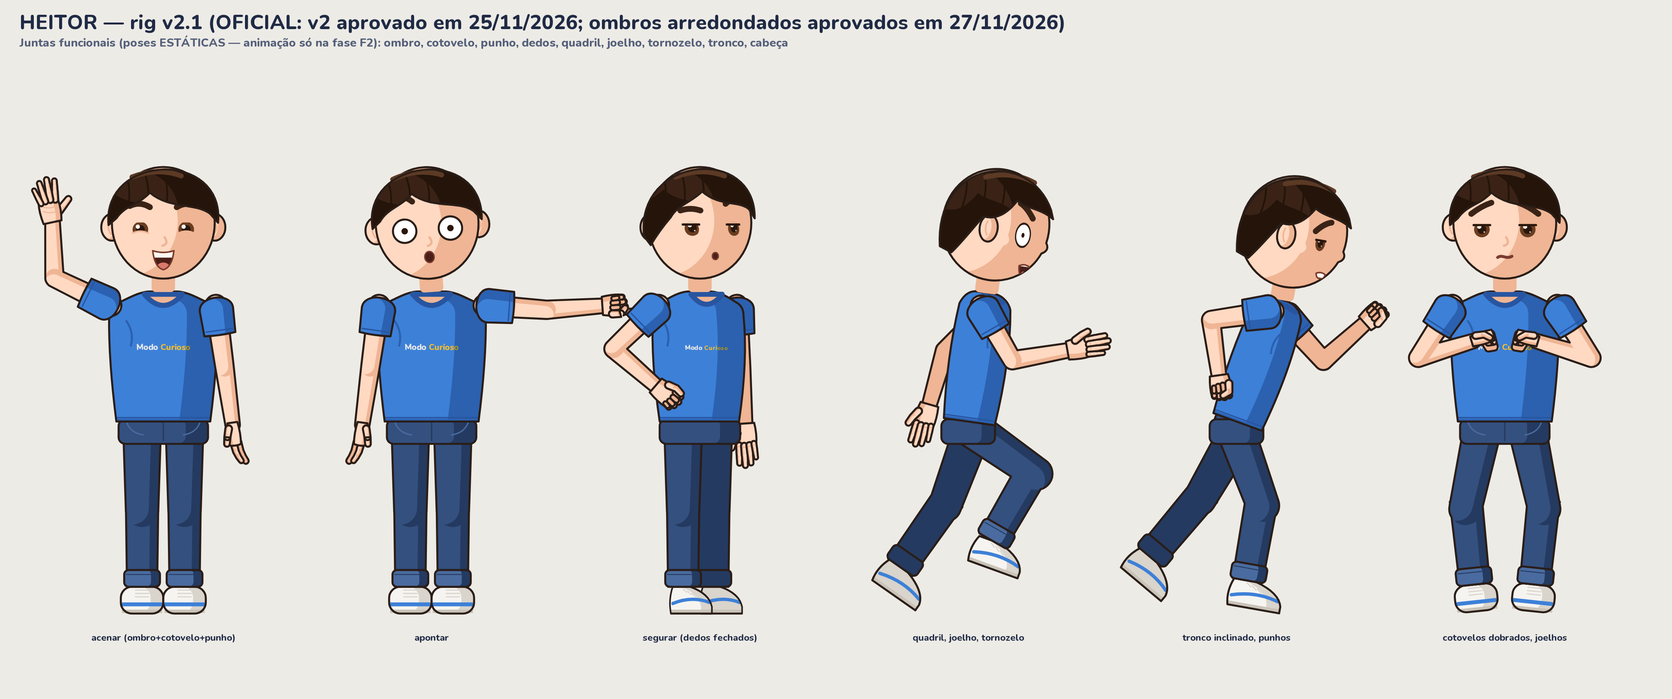
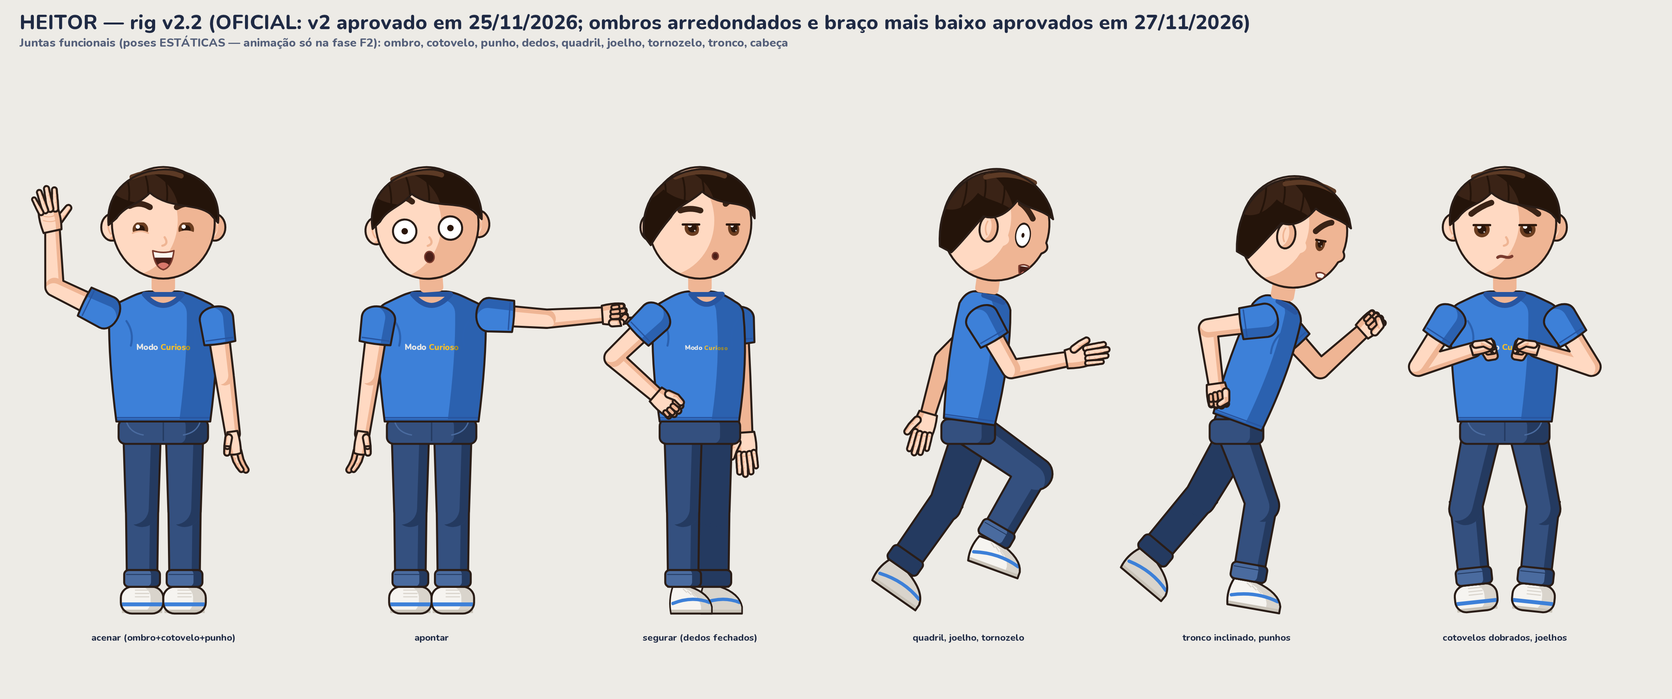
Heitor rig v2.2 e Juca/Jandira v1.1 aprovados: braço encaixado abaixo da linha do ombro; skill v6 (zip) com elenco, marcas e voz do EP02
Claude-Session: https://claude.ai/code/session_011EYkUSqXLaaDeUvLHBExgD

diff --git a/personagens/heitor/rig_v2/codigo/heitor_v2.py b/personagens/heitor/rig_v2/codigo/heitor_v2.py
@@ -1,5 +1,5 @@
 #!/usr/bin/env python3
-"""Heitor — rig 2D com esqueleto, v2 (OFICIAL, aprovado pelo diretor em 25/11/2026).
+"""Heitor — rig 2D com esqueleto, v2 (OFICIAL, aprovado pelo diretor em 25/11/2026; v2.1 ombros redondos; v2.2 braço mais baixo, 27/11/2026).
 
 Fonte da verdade: ../modelo.json (paleta e proporções da especificação oficial).
 - Esqueleto hierárquico com FK: raiz(pelve) → tronco → cabeça; tronco → braço → antebraço → mão → 5 dedos;
@@ -81,7 +81,8 @@ def preenche(c, forma, cor, cor_s, lado, frac=0.3, linha=True):
 # ------------------------------------------------------------------ esqueleto (FK)
 # Posição de cada osso no sistema do pai, por vista (x em H; y para baixo). Ângulo de repouso em graus.
 _ALT_PELVE = PROP["barra_camisa"]
-OMBRO_Y = -(PROP["ombro"] - _ALT_PELVE)
+OMBRO_TRONCO_Y = -(PROP["ombro"] - _ALT_PELVE)                       # linha do ombro da camiseta (desenho do tronco)
+OMBRO_Y = -(PROP.get("ombro_braco", PROP["ombro"]) - _ALT_PELVE)     # v2.2: encaixe do braço um pouco abaixo da linha do ombro
 PESCOCO_Y = -(2.92 - _ALT_PELVE)
 LAYOUT = {
     "frente":       {"braco_d": (-0.47, 8), "braco_e": (0.47, -8), "coxa_d": (-0.19, 0), "coxa_e": (0.19, 0)},
@@ -508,7 +509,7 @@ def _estampa(c, cx, y_base, larg, curva=0.6, perspectiva=0.0, espelhado=False):
 
 def _forma_tronco(vista):
     """v2.1 (27/11/2026, aprovado pelo diretor): do pescoço ao ombro a linha DESCE em curva (trapézio), sem patamar reto; a quina do ombro é redonda."""
-    p = skia.Path(); top, hem = OMBRO_Y - 0.1, 0.0
+    p = skia.Path(); top, hem = OMBRO_TRONCO_Y - 0.1, 0.0
     if vista in ("frente", "costas"):
         p.moveTo(-0.13, top - 0.025); p.lineTo(0.13, top - 0.025)
         p.cubicTo(0.22, top - 0.02, 0.31, top + 0.035, 0.40, top + 0.075)          # trapézio descendo
@@ -553,15 +554,15 @@ def desenhar_tronco(c, vista, lado_luz, espelhado):
     c.drawPath(tr, contorno())
     # gola
     if vista == "frente":
-        dec = skia.Path(); dec.moveTo(-0.17, OMBRO_Y - 0.1); dec.quadTo(0, OMBRO_Y + 0.1, 0.17, OMBRO_Y - 0.1); dec.close()
+        dec = skia.Path(); dec.moveTo(-0.17, OMBRO_TRONCO_Y - 0.1); dec.quadTo(0, OMBRO_TRONCO_Y + 0.1, 0.17, OMBRO_TRONCO_Y - 0.1); dec.close()
         c.drawPath(dec, tinta(C["pele_s"])); c.drawPath(dec, traco(C["gola"], 0.045))
     elif vista == "tres_quartos":
-        dec = skia.Path(); dec.moveTo(-0.08, OMBRO_Y - 0.1); dec.quadTo(0.06, OMBRO_Y + 0.08, 0.2, OMBRO_Y - 0.1); dec.close()
+        dec = skia.Path(); dec.moveTo(-0.08, OMBRO_TRONCO_Y - 0.1); dec.quadTo(0.06, OMBRO_TRONCO_Y + 0.08, 0.2, OMBRO_TRONCO_Y - 0.1); dec.close()
         c.drawPath(dec, tinta(C["pele_s"])); c.drawPath(dec, traco(C["gola"], 0.045))
     elif vista == "perfil":
-        c.drawLine(-0.02, OMBRO_Y - 0.1, 0.16, OMBRO_Y - 0.06, traco(C["gola"], 0.045))
+        c.drawLine(-0.02, OMBRO_TRONCO_Y - 0.1, 0.16, OMBRO_TRONCO_Y - 0.06, traco(C["gola"], 0.045))
     else:
-        c.drawLine(-0.17, OMBRO_Y - 0.1, 0.17, OMBRO_Y - 0.1, traco(C["gola"], 0.045))
+        c.drawLine(-0.17, OMBRO_TRONCO_Y - 0.1, 0.17, OMBRO_TRONCO_Y - 0.1, traco(C["gola"], 0.045))
 
 
 def desenhar_quadril(c, vista, lado_luz):
@@ -579,7 +580,9 @@ def desenhar_quadril(c, vista, lado_luz):
 
 
 def forma_braco():
-    return capsula(OSS["braco"], 0.19, 0.165)
+    """v2.2: o topo arredondado do braço começa um pouco abaixo da junta (fica escondido dentro da manga)."""
+    q = OSS.get("braco_topo", 0.0)
+    p = capsula(OSS["braco"] - q, 0.19, 0.165); p.offset(0, q); return p
 
 
 def forma_antebraco():

diff --git a/personagens/heitor/extensoes/x2_voo/voo.py b/personagens/heitor/extensoes/x2_voo/voo.py
@@ -189,7 +189,7 @@ def _camiseta(c, vista, vento, t, semente, so_barra=False):
         return
     f = 2.0 + 4.0 * I; fase = 2 * math.pi * f * t
     lados = {"frente": (-0.42, 0.42, 0.47), "costas": (-0.42, 0.42, 0.47), "tres_quartos": (-0.36, 0.35, 0.41), "perfil": (-0.21, 0.23, 0.27)}[vista]
-    xa, xb, xm = lados; topo = HV.OMBRO_Y - 0.1
+    xa, xb, xm = lados; topo = getattr(HV, "OMBRO_TRONCO_Y", HV.OMBRO_Y) - 0.1
     # barra abrindo: aba que sai da barra na direção do vento (só quando o ar corre do ombro para a barra)
     ao_longo = max(0.0, float(w[1]))
     abre = (0.06 + 0.10 * I) * ao_longo     # ≤ 0,16 H: termina dentro do cós do jeans

diff --git a/personagens/heitor/rig_v2/codigo/folhas.py b/personagens/heitor/rig_v2/codigo/folhas.py
@@ -17,7 +17,7 @@ import heitor_v2 as H   # noqa: E402
 OUT = AQUI.parent / "folhas"; OUT.mkdir(exist_ok=True)
 FUNDO = 0xFFEDEBE6; TXT = 0xFF1F2A44
 F_T = skia.Font(H.NUNITO, 52); F_S = skia.Font(H.NUNITO, 30); F_P = skia.Font(H.NUNITO, 24)
-CAB = "HEITOR — rig v2.1 (OFICIAL: v2 aprovado em 25/11/2026; ombros arredondados aprovados em 27/11/2026)"
+CAB = "HEITOR — rig v2.2 (OFICIAL: v2 aprovado em 25/11/2026; ombros arredondados e braço mais baixo aprovados em 27/11/2026)"
 
 
 def titulo(c, sub):

diff --git a/CLAUDE.md b/CLAUDE.md
@@ -11,7 +11,7 @@ Responda em português do Brasil. O usuário é o diretor do estúdio. Ele aprov
 ## Estado atual (atualize ao fim de cada etapa)
 - Concluído: auditoria dos 13 MP4 (`docs/AUDITORIA_REFERENCIAS.md`), manuais, identidade oficial (ID-001 a ID-004), arquitetura técnica (proposta, seção 15), ambiente reproduzível (`ambiente/`, `Dockerfile`).
 - Piloto técnico 01 (10 s) produzido em `pilotos/piloto_01_ultimo_homem/` e **aguardando avaliação do diretor**. Feito com o rig v1, hoje substituído pelo v2; voz temporária espeak-ng.
-- **Rig oficial do Heitor: v2.1** em `personagens/heitor/rig_v2/` (v2 aprovado pelo diretor em 25/11/2026; F1–F4, `RELATORIO_FINAL.md`; **v2.1 em 27/11/2026: ombros arredondados, pescoço→ombro em curva, aprovado; F1 6/6, 0 cotovelos invertidos**; vale a partir do EP02). Use-o em toda produção nova; ele substitui o rig v1. QA do personagem: `verificar_f1.py`, `verificar_cotovelos.py`, oclusão da marca no cenário.
+- **Rig oficial do Heitor: v2.1** em `personagens/heitor/rig_v2/` (v2 aprovado pelo diretor em 25/11/2026; F1–F4, `RELATORIO_FINAL.md`; **v2.1 em 27/11/2026: ombros arredondados, pescoço→ombro em curva, aprovado; F1 6/6, 0 cotovelos invertidos**; vale a partir do EP02; **v2.2 em 27/11/2026: braço encaixado 0,08 H abaixo da linha do ombro, corpo igual, aprovado; F1 6/6, 0 cotovelos invertidos**). Use-o em toda produção nova; ele substitui o rig v1. QA do personagem: `verificar_f1.py`, `verificar_cotovelos.py`, oclusão da marca no cenário.
 - **Cenografia** (`cenografia/`): direção aprovada (procedural no Blender + efeitos 2D/2.5D; estilizado cinematográfico; bairro urbano brasileiro; sem sites externos; ordem dos poderes: eletricidade, terra, voo, aranha, elasticidade). E0 a E6 **aprovadas** (cena de prova: `cenografia/testes/e6/E6_cena_prova.mp4`); E7 (núcleo de efeitos em `efeitos/`) **aprovada**; E8 parte 1 (poderes eletricidade e terra, `efeitos/poderes/`) **aprovada** (`cenografia/testes/E8_RELATORIO.md`). **Extensão X1 "tom de luz no personagem" aprovada** em 26/11/2026 (`personagens/heitor/extensoes/x1_tom_de_luz/`; fora do rig; força padrão, sem ajuste): usar `tom_personagem=fazer_tom(...)` nas composições novas com o Heitor. Borda do compositor (camada não pré-multiplicada somada como pré-multiplicada): **o diretor decidiu NÃO corrigir**. **Extensão X2 "voo" aprovada** em 26/11/2026 (`personagens/heitor/extensoes/x2_voo/`; poses de voo, corpo inclinado, roupa e cabelo ao vento, barra solta sobre o cós do jeans; fora do rig): usar `voo.desenhar(...)` nos planos de voo. **E8 parte 2 (poder de voo, `efeitos/poderes/voo.py`) aprovada** em 26/11/2026 ("Pode continuar"; `cenografia/testes/E8_VOO_RELATORIO.md`). Achados em aberto, sem decisão do diretor (NÃO corrigir sem autorização): núcleo de efeitos lê o skia não pré-multiplicado (brilhos 5,6× mais fortes que o desenhado); auxiliar `altura_pelve` da X2 induz pés afundados ao agachar. **Extensão X3 "aranha" aprovada** em 26/11/2026 (`personagens/heitor/extensoes/x3_aranha/`; escalada, balanço no fio, gesto de lançar próprio; fora do rig). **E8 parte 3 (poder de aranha, `efeitos/poderes/aranha.py`) aprovada** em 26/11/2026 (`cenografia/testes/E8_ARANHA_RELATORIO.md`). **Extensão X4 "elasticidade" aprovada** em 26/11/2026 (`personagens/heitor/extensoes/x4_elasticidade/`; estica só antebraço e coxa pelo escorço do rig; usar `elasticidade.desenhar`). **E8 parte 4 (poder de elasticidade, `efeitos/poderes/elasticidade.py`) aprovada** em 26/11/2026 (`cenografia/testes/E8_ELASTICIDADE_RELATORIO.md`). **E9 (combinações de poderes, `cenografia/testes/E9_RELATORIO.md`) e relatório final da fase (`cenografia/RELATORIO_FINAL.md`) entregues e aguardando aprovação.** Voo, aranha e elasticidade só depois da aprovação específica das extensões do rig (apresentar cada uma à parte). Nenhuma extensão do rig sem aprovação específica.
 - **Narração (em teste):** integração MiniMax T2A V2 em `narracao/` (cliente com orçamento, cache e registro; diretor de narração; T0 OK sem rede). Voz candidata oficial `Portuguese_CaptivatingStoryteller` (voz do sistema MiniMax, escolhida pelo diretor em 26/11/2026; listada pela API, síntese ainda não testada); o clone `moss_audio_f28d61d6-…` (Matheus) é proibido, sem troca automática de voz. **Créditos limitados (plano Starter US$ 5): nenhuma síntese sem autorização registrada em `narracao/orcamento.json`; contar caracteres antes; nunca repetir chamada sem avaliar cobrança.** T1 feito (chave autentica em api.minimax.io); T2 recusado com código 1008 (sem saldo na API: o plano Starter é do site MiniMax Audio, não da API). **Novo fluxo aprovado em 26/11/2026:** o diretor gera no site MiniMax Audio e envia o áudio + texto; a pós-produção é `narracao/pos/` (`processar.py ficha | analisar | finalizar`; F0 sintética 28/28 OK). Pausas por intenção até 0,7 s (nunca ≥ 0,8 s), narração em −16 LUFS / −1,5 dBTP, alinhamento por espeak-ng + DTW. Alinhamento principal: Whisper local (faster-whisper "medium"; rede libera o Hugging Face). **EP01 (5 cm):** narração oficial = 1ª geração do diretor, em "você" (`producoes/ep01_cinco_centimetros/narracao_falada.txt`), pós-produção em `narracao/edicoes/ep01_narracao/` (110,2 s, QA 13/13), aguardando avaliação do diretor. **EP01 PRODUZIDO** (autorização total do diretor, 26/11/2026): `producoes/ep01_cinco_centimetros/` (README com entregas, QA e limitações), vídeo `export/MC_ep01_cinco_centimetros_v1.mp4` (113,4 s), **aguardando avaliação do diretor**. Personagens originais gato e aranha em `personagens/animais/`. **E10 (cenários do EP01):** parte 1 entregue (`cenografia/componentes/interior.py`, quarto em escala macro, 4 planos em `cenografia/testes/e10/`, relatório `cenografia/testes/E10_RELATORIO.md`); próxima: parte 2 (escada, sala com gato, aranha, vento/poça, insert científico). F2 calibra o preset de voz.
 - **Não iniciar produção em escala nem novos pilotos sem autorização explícita do usuário.**
@@ -20,7 +20,7 @@ Responda em português do Brasil. O usuário é o diretor do estúdio. Ele aprov
 ## Regras fixas
 - Camiseta (e patch do figurino): exatamente "Modo Curioso". Marca d'água: exatamente "MODO CURIOSO". Marca dentro do cenário (telas, envelopes, fichas, placas): exatamente "MODO CURIOSO" (ID-004). Qualquer outra grafia reprova no QA.
 - Duração (diretriz permanente do canal, aprovada em 26/11/2026): formato principal de **1 a 2 min (60–120 s)**; vídeo longo só como formato especial, quando o tema justificar. A duração sai do potencial do tema e da necessidade narrativa: não prolongar artificialmente nem cortar informação importante só para caber em 2 min. Ritmo natural, pausas expressivas e boa retenção.
-- **Animação dinâmica (diretriz permanente, 27/11/2026, a partir do EP02):** personagens em movimento (caminhada, corrida, reações, olhar dirigido, interação com objetos; nunca congelados), câmera cinematográfica (travelling, aproximação/afastamento, acompanhar a ação), cenário vivo quando fizer sentido, cada trecho da narração com ação visível, planos de 1,5–2 s nas sequências dinâmicas. **Reforço (27/11): movimento o tempo todo, nenhum personagem estático; tudo o que a narração diz aparece na tela no momento em que é dito (mapa fala → imagem pelos tempos das palavras).** Detalhes: `docs/PIPELINE_PRODUCAO.md` seção 7. **Cena de prova da animação dinâmica APROVADA em 27/11/2026 como padrão do EP02 em diante** (troca rápida de cena e volta permitidas; sempre aproximação de câmera, expressões e movimentos; detalhes em `docs/PIPELINE_PRODUCAO.md` seção 7): `producoes/teste_animacao_dinamica/` (19,7 s, mesmo trecho da narração do EP01, QA 11/11). Ferramentas A1–A3 em `codigo/atuacao.py`, fora do rig: trajeto sem pé deslizando, virar, pulo, tropeço, câmera que acompanha sem revelar a borda, poeira. O gato ganhou ciclo de caminhada. **EP02 (27/11/2026):** roteiro do diretor recebido; proposta sem marcas de terceiros em `producoes/ep02_presente_videogame/roteiro_proposta.md` (PS5/GTA 6/Vice City/Los Santos → videogame genérico, "o jogo mais esperado da década", cidade fictícia "Porto Neon"). Personagens **Juca e Jandira** em `personagens/adultos/` — rig adulto v1 derivado do Heitor v2.1 sem alterá-lo, **aprovados pelo diretor em 27/11/2026**. **EP02 PRODUZIDO** (autorização total do diretor, 27/11/2026): `producoes/ep02_presente_videogame/` (README com QA 16/16 e limitações), vídeo `export/MC_ep02_presente_videogame_v1.mp4` (88,4 s), **aguardando avaliação do diretor**. Narração com a voz do próprio diretor (pedido dele; manter "PS5" e "GTA 6" na fala, como fã); na imagem nada de marca de terceiros. Preset de voz novo: `narracao/pos/preset_ep02_voz_diretor.json` (use `NARRACAO_PRESET=`). Kit da sala: `cenografia/componentes/sala_ep02.py`. Render: no máximo 3 processos e `MAX_PLACAS=2` (memória).
+- **Animação dinâmica (diretriz permanente, 27/11/2026, a partir do EP02):** personagens em movimento (caminhada, corrida, reações, olhar dirigido, interação com objetos; nunca congelados), câmera cinematográfica (travelling, aproximação/afastamento, acompanhar a ação), cenário vivo quando fizer sentido, cada trecho da narração com ação visível, planos de 1,5–2 s nas sequências dinâmicas. **Reforço (27/11): movimento o tempo todo, nenhum personagem estático; tudo o que a narração diz aparece na tela no momento em que é dito (mapa fala → imagem pelos tempos das palavras).** Detalhes: `docs/PIPELINE_PRODUCAO.md` seção 7. **Cena de prova da animação dinâmica APROVADA em 27/11/2026 como padrão do EP02 em diante** (troca rápida de cena e volta permitidas; sempre aproximação de câmera, expressões e movimentos; detalhes em `docs/PIPELINE_PRODUCAO.md` seção 7): `producoes/teste_animacao_dinamica/` (19,7 s, mesmo trecho da narração do EP01, QA 11/11). Ferramentas A1–A3 em `codigo/atuacao.py`, fora do rig: trajeto sem pé deslizando, virar, pulo, tropeço, câmera que acompanha sem revelar a borda, poeira. O gato ganhou ciclo de caminhada. **EP02 (27/11/2026):** roteiro do diretor recebido; proposta sem marcas de terceiros em `producoes/ep02_presente_videogame/roteiro_proposta.md` (PS5/GTA 6/Vice City/Los Santos → videogame genérico, "o jogo mais esperado da década", cidade fictícia "Porto Neon"). Personagens **Juca e Jandira** em `personagens/adultos/` — rig adulto derivado do Heitor sem alterá-lo, **aprovados pelo diretor em 27/11/2026; v1.1 (braço mais baixo, mesmo ajuste do Heitor v2.2) aprovada como padrão do próximo vídeo** (o EP02 foi renderizado com a v1). **EP02 PRODUZIDO** (autorização total do diretor, 27/11/2026): `producoes/ep02_presente_videogame/` (README com QA 16/16 e limitações), vídeo `export/MC_ep02_presente_videogame_v1.mp4` (88,4 s), **aguardando avaliação do diretor**. Narração com a voz do próprio diretor (pedido dele; manter "PS5" e "GTA 6" na fala, como fã); na imagem nada de marca de terceiros. Preset de voz novo: `narracao/pos/preset_ep02_voz_diretor.json` (use `NARRACAO_PRESET=`). Kit da sala: `cenografia/componentes/sala_ep02.py`. Render: no máximo 3 processos e `MAX_PLACAS=2` (memória).
 - Nunca copiar personagens, marcas ou obras de terceiros (as referências citam JoJo, One Piece, Lucy, Clash; nós não). Nunca clonar voz sem autorização por escrito.
 - Não inventar análises: diga o que foi medido, o que foi visto e o que não pôde ser verificado.
 - Chaves de API nunca no repositório (use o mecanismo de credenciais do ambiente).

diff --git a/skills/modo-curioso-padrao/SKILL.md b/skills/modo-curioso-padrao/SKILL.md
@@ -8,7 +8,7 @@ description: "Padrão de produção dos vídeos \"E se…?\" do Modo Curioso, me
 Base: 21 vídeos de referência medidos quadro a quadro (≈36 min, ≈105 mil quadros; o v21 é a referência de ANIMAÇÃO de personagem: câmera por fluxo óptico, cortes, cor em Lab, OCR das legendas, áudio EBU R128) + revisão visual de 1 quadro por segundo. Números = mediana (faixa típica p25–p75). Guia visual com gráficos: https://claude.ai/artifact/D6R7BkymKEDAH7QLAZFYgt
 
 ## 0. Regras fixas do canal (valem sempre, acima de tudo)
-- Nada de personagens, logos, marcas ou trechos com direito autoral. As referências citam anime, jogos e pessoas reais — nós NÃO. Não copiar personagem nem arte de terceiros: recriar no nosso estilo.
+- Nada de personagens, logos, marcas ou trechos com direito autoral. As referências citam anime, jogos e pessoas reais — nós NÃO. Não copiar personagem nem arte de terceiros: recriar no nosso estilo. Exceção decidida pelo diretor no EP02: a NARRAÇÃO pode citar o nome de um produto como fã ("PS5", "GTA 6"); na IMAGEM nunca há logotipo, arte, fonte, mapa ou design de terceiros (console, controle, jogo e cidade sempre genéricos, desenho próprio).
 - Nunca usar foto real de criança.
 - Temas de guerra só em tom sério.
 - **Identidade oficial (fonte da verdade: `docs/IDENTIDADE_OFICIAL.md` no repositório Claude-3D; ver seção 0.1).**
@@ -54,13 +54,14 @@ Base: 21 vídeos de referência medidos quadro a quadro (≈36 min, ≈105 mil q
   - Use esse nível nos momentos de poder e ação; no resto, o nível base basta.
 - Antagonista pode ter mais detalhe que o herói. Multidões = mesmo modelo variando roupa, cabelo e pele.
 - Elenco do canal — **Heitor (v3)**: 10–12 anos, ~4 cabeças de altura, cabeça redonda, SEM bochecha rosada, cabelo liso castanho-escuro com franja lateral (#3a2316 / sombra #24140a / brilho #5c3a25), olhos castanhos (#6a3d20), pele #ffd9c2 (sombra #efb594), camiseta azul #3d80d8 (sombra #2b61b0, gola #2855a0) com a estampa "Modo Curioso" no peito ("Modo" #f2efe8, "Curioso" #ffc21f, Nunito ExtraBold), calça jeans #34507f (sombra #243a60) com barra dobrada #4a6b9f, tênis branco #f6f4f0 com faixa azul. Vistas: frente, 3/4, perfil, costas; expressões: neutro, feliz, surpreso, triste, assustado, preocupado, bravo, pensativo, sonolento.
-- **Rig oficial do Heitor: v2** (aprovado em 25/11/2026), em `personagens/heitor/rig_v2/` no repositório Claude-3D. É vetor 2D por código (skia-python), com esqueleto, 4 vistas, 5 dedos por mão e rosto paramétrico. Nunca redesenhar o Heitor nem gerá-lo por IA de imagem: sempre posar o rig. Regras de animação verificadas por script:
+- **Rig oficial do Heitor: v2.2** (v2 aprovado em 25/11/2026; v2.1 ombros arredondados e v2.2 braço encaixado um pouco abaixo da linha do ombro, para o ombro não subir — ambos aprovados em 27/11/2026), em `personagens/heitor/rig_v2/` no repositório Claude-3D. É vetor 2D por código (skia-python), com esqueleto, 4 vistas, 5 dedos por mão e rosto paramétrico. Nunca redesenhar o Heitor nem gerá-lo por IA de imagem: sempre posar o rig. Regras de animação verificadas por script:
   - Cotovelo só dobra no sentido anatômico. De perfil, o antebraço vai para a frente. De frente ou de costas, um cotovelo acima do ombro nunca aponta para a cabeça; aceno, "mãos ao alto" e punho erguido têm o antebraço PARA CIMA. Use a IK com escolha automática do cotovelo.
   - Pé de apoio plantado (deslize zero) em caminhada, corrida e parada.
   - Troca de desenho de olho (pequeno escuro ↔ arregalado branco) escondida por uma piscada; troca de boca com a boca quase fechada.
   - Objeto segurado preso ao ponto de pega da mão. Com a palma para a câmera, o objeto aparece NA FRENTE da mão.
   - Estampa "Modo Curioso" nunca espelhada (inclusive nas vistas viradas para a esquerda).
   - No cenário 3D: fundo estático do Blender + Heitor 2D posicionado e escalado por âncoras 3D → 2D (altura 1,40 m), com sombra de contato no chão.
+- Elenco do canal — **Juca e Jandira** (adultos, casal do EP02; aprovados em 27/11/2026), rig adulto **v1.1** em `personagens/adultos/` (mesmo rig do Heitor, sem alterá-lo: cópia própria por personagem; 5 cabeças de altura; braço encaixado 0,10 H abaixo da linha do ombro). Juca: ~28 anos, pele morena, cabelo crespo curto preto, barba rala, camiseta verde #2f8f5f com "Modo Curioso", moletom cinza, chinelo; 1,75 m em cena. Jandira: ~27 anos, cabelo longo ondulado castanho-escuro com risca lateral, cílios, camiseta roxa #7a55c7 com "Modo Curioso", jeans, tênis branco com faixa roxa; 1,65 m em cena. Expressões extras: vidrado, irritada, desconfiada; rosto com olheira e barba por fazer (0–1). Poses e objetos genéricos do EP02 em `personagens/adultos/poses.py`.
 
 ## 3.1 Animação dinâmica (diretriz permanente do diretor, 27/11/2026)
 - **Princípio:** aparência de animação 3D cinematográfica, com personagens vivos, câmera dinâmica e acontecimentos acompanhando a narração. Em cada cena, algo está acontecendo; piscada e respiração sozinhas não bastam.
@@ -163,7 +164,7 @@ Base: 21 vídeos de referência medidos quadro a quadro (≈36 min, ≈105 mil q
 - Graves ~29 % da energia; banda de voz ~44 %.
 - ~1,6 eventos sonoros por segundo (whoosh, impacto, pop em cada corte e efeito), sempre baixos por baixo da voz.
 - Narração contínua com música de fundo e ducking.
-- Voz oficial (ID-001): voz sintética LICENCIADA, criada a partir de uma descrição de características gerais (masculina, 25–35 anos, médio-grave e quente, ~111 Hz, rápida ~5,5 sílabas/s, expressiva, português do Brasil com "tu" e vocabulário gaúcho). NUNCA clonar a voz das referências ou de qualquer pessoa sem autorização por escrito. Fornecedor recomendado: ElevenLabs Voice Design, sujeito ao teste de amostra. Candidata atual (26/11/2026, escolhida pelo diretor, ainda não aprovada como ID-001): MiniMax `Portuguese_CaptivatingStoryteller`, gerada pelo diretor no site MiniMax Audio e finalizada em `narracao/pos/` (−16 LUFS na narração; mix final −14 LUFS).
+- Voz oficial (ID-001): voz sintética LICENCIADA, criada a partir de uma descrição de características gerais (masculina, 25–35 anos, médio-grave e quente, ~111 Hz, rápida ~5,5 sílabas/s, expressiva, português do Brasil com "tu" e vocabulário gaúcho). NUNCA clonar a voz das referências ou de qualquer pessoa sem autorização por escrito. Fornecedor recomendado: ElevenLabs Voice Design, sujeito ao teste de amostra. Candidata atual (26/11/2026, escolhida pelo diretor, ainda não aprovada como ID-001): MiniMax `Portuguese_CaptivatingStoryteller`, gerada pelo diretor no site MiniMax Audio e finalizada em `narracao/pos/` (−16 LUFS na narração; mix final −14 LUFS). EP02: narração com a voz do próprio diretor (autorizada por ele), tratada com o preset `narracao/pos/preset_ep02_voz_diretor.json` (`NARRACAO_PRESET=`), que contém os agudos da voz grave.
 
 ## 11. Checklist antes de entregar
 1. Gancho dentro do 1º segundo, quebrado em 3–5 legendas.

diff --git a/skills/README.md b/skills/README.md
@@ -4,7 +4,13 @@
 
 O skill que o Claude usa vem da sua conta claude.ai (skills sincronizados). A edição feita na cópia local da sessão pode ser substituída na próxima sincronização. Para a mudança valer em todas as sessões, envie este `SKILL.md` como nova versão do skill `modo-curioso-padrao` nas configurações de skills da sua conta.
 
-**Versão na conta claude.ai: v5** (enviada pelo diretor em 27/11/2026). É igual a este `SKILL.md` e a `modo-curioso-padrao.zip`, incluindo a animação dinâmica aprovada como padrão do EP02.
+**Versão na conta claude.ai: v5** (enviada pelo diretor em 27/11/2026). **v6 pronta para envio** (`modo-curioso-padrao.zip`, igual a este `SKILL.md`).
+
+Atualização de 27/11/2026 (v6, depois do EP02):
+- Heitor rig **v2.2**: braço encaixado um pouco abaixo da linha do ombro (pedido do diretor; corpo igual ao v2.1).
+- Elenco: **Juca e Jandira** (rig adulto v1.1, mesmo ajuste do braço).
+- Marcas: a narração pode citar um produto como fã (decisão do diretor no EP02); na imagem, nunca marca de terceiros.
+- Voz: EP02 com a voz do próprio diretor e preset próprio na pós.
 
 Atualização de 27/11/2026:
 - **Padrão aprovado:** a cena de prova `producoes/teste_animacao_dinamica/` é o padrão de animação a partir do EP02. As imagens acompanham a narração, a troca rápida de cena e a volta são permitidas, e todo plano tem aproximação de câmera, expressões e movimentos.

diff --git a/personagens/heitor/rig_v2/README.md b/personagens/heitor/rig_v2/README.md
@@ -1,6 +1,6 @@
 # Heitor — rig v2 (OFICIAL)
 
-**Status: aprovado pelo diretor em 25/11/2026 como o rig oficial do Heitor** (fases F1–F4; relatório final em [`RELATORIO_FINAL.md`](RELATORIO_FINAL.md)). Substitui o rig v1 do piloto 01 na produção. O piloto 01 continua como registro histórico, feito com o v1. As decisões ID-001 a ID-004 não mudaram. Os vídeos de teste em `testes/` foram renderizados durante a fase de proposta, por isso trazem o rótulo "PROPOSTA".
+**Status: aprovado pelo diretor em 25/11/2026 como o rig oficial do Heitor** · **v2.2 (27/11/2026, aprovada): o braço se encaixa 0,08 H abaixo da linha do ombro (`ombro_braco` 2,68 H em `modelo.json`; a camiseta continua em 2,76 H) e o topo do braço fica dentro da manga (`braco_topo`), para o ombro não subir; F1 6/6, 0 cotovelos invertidos** (fases F1–F4; relatório final em [`RELATORIO_FINAL.md`](RELATORIO_FINAL.md)). Substitui o rig v1 do piloto 01 na produção. O piloto 01 continua como registro histórico, feito com o v1. As decisões ID-001 a ID-004 não mudaram. Os vídeos de teste em `testes/` foram renderizados durante a fase de proposta, por isso trazem o rótulo "PROPOSTA".
 
 ## Como usar na produção
 - **Rig:** `codigo/heitor_v2.py`, função `desenhar(canvas, x_pe, y_pe, altura_px, vista, direcao, pose, rosto)`. Vistas: frente, tres_quartos, perfil, costas (direção −1 espelha; a estampa nunca espelha).

diff --git a/personagens/adultos/README.md b/personagens/adultos/README.md
@@ -1,4 +1,4 @@
-# Juca e Jandira — rig adulto (v1 aprovado em 27/11/2026; v1.1 PROPOSTA: braço mais baixo)
+# Juca e Jandira — rig adulto (v1 aprovado em 27/11/2026; v1.1 APROVADO em 27/11/2026: braço mais baixo)
 
 Personagens do EP02 ("E se a sua namorada te desse um videogame…"). Nomes definidos pelo diretor em 27/11/2026; aparência proposta pelo Claude.
 
@@ -12,7 +12,7 @@ Personagens do EP02 ("E se a sua namorada te desse um videogame…"). Nomes defi
 
 Limitações: o cabelo da Jandira não balança ainda (fica para a animação); as vistas espelhadas trocam o lado da risca do cabelo (mesma limitação do Heitor); o controle de perfil é um desenho frontal comprimido (trapaça 2D).
 
-## v1.1 — PROPOSTA (27/11/2026, pedido do diretor depois do EP02): só o braço mais baixo
+## v1.1 — APROVADA pelo diretor em 27/11/2026 (pedido depois do EP02): só o braço mais baixo
 1ª tentativa (ombro do corpo mais baixo, pescoço mais longo) **recusada pelo diretor: "o antes está melhor, seria somente
 abaixar um pouco mais o braço para o ombro não ficar muito em cima"**. Versão atual da proposta:
 - corpo, pescoço e tronco **iguais à v1 aprovada**;
